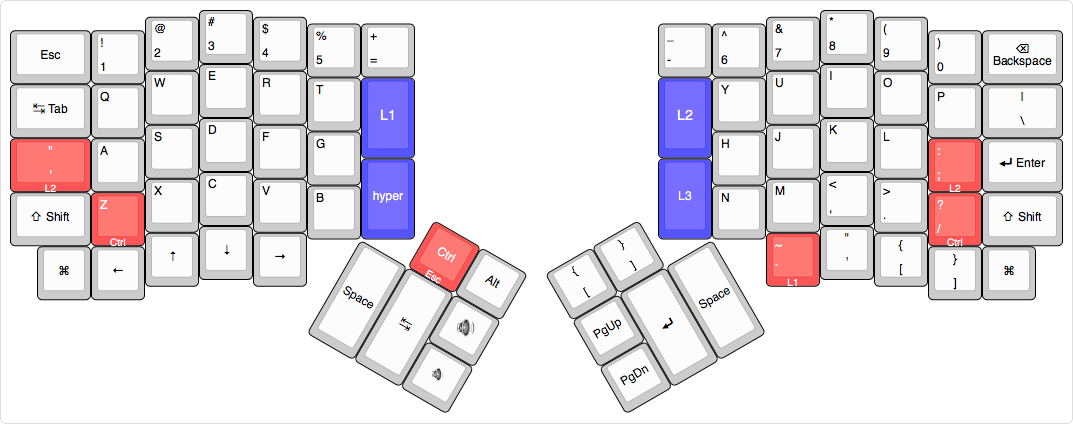
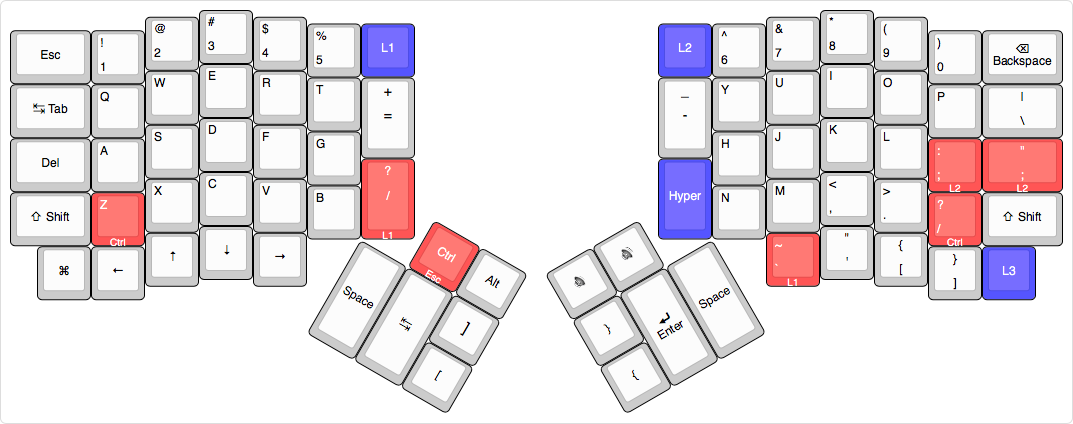
Move keys around to optimize convert

diff --git a/keyboard/ergodox_ez/keymaps/tomeric/keymap.c b/keyboard/ergodox_ez/keymaps/tomeric/keymap.c
@@ -14,45 +14,45 @@ const uint16_t PROGMEM keymaps[][MATRIX_ROWS][MATRIX_COLS] = {
 /* Keymap 0: Basic layer
  *
  * ,--------------------------------------------------.           ,--------------------------------------------------.
- * | Esc    |   1  |   2  |   3  |   4  |   5  |  =   |           |   -  |   6  |   7  |   8  |   9  |   0  |  BkSp  |
+ * | Esc    |   1  |   2  |   3  |   4  |   5  |  L1  |           |  L2  |   6  |   7  |   8  |   9  |   0  |  BkSp  |
  * |--------+------+------+------+------+-------------|           |------+------+------+------+------+------+--------|
- * | Tab    |   Q  |   W  |   E  |   R  |   T  |  L1  |           |  L2  |   Y  |   U  |   I  |   O  |   P  |   \    |
+ * | Tab    |   Q  |   W  |   E  |   R  |   T  |  =   |           |   -  |   Y  |   U  |   I  |   O  |   P  |   \    |
  * |--------+------+------+------+------+------|      |           |      |------+------+------+------+------+--------|
- * | '"/L2  |   A  |   S  |   D  |   F  |   G  |------|           |------|   H  |   J  |   K  |   L  |; / L2|  Enter |
- * |--------+------+------+------+------+------| Hyper|           |  L3  |------+------+------+------+------+--------|
- * | LShift |Z/Ctrl|   X  |   C  |   V  |   B  |      |           |      |   N  |   M  |   ,  |   .  |//Ctrl| RShift |
+ * | Del    |   A  |   S  |   D  |   F  |   G  |------|           |------|   H  |   J  |   K  |   L  |   ;  | '" / L2|
+ * |--------+------+------+------+------+------|  ?/  |           | Hyper|------+------+------+------+------+--------|
+ * | LShift |Z/Ctrl|   X  |   C  |   V  |   B  |  L1  |           |      |   N  |   M  |  <,  |  >.  |//Ctrl| RShift |
  * `--------+------+------+------+------+-------------'           `-------------+------+------+------+------+--------'
- *   | LGui | Left |  Up  | Down | Right|                                       |Grv/L1|  '"  |   [  |   ]  | RGui |
+ *   | LGui | Left |  Up  | Down | Right|                                       |Grv/L1|  '"  |   [  |   ]  |  L3  |
  *   `----------------------------------'                                       `----------------------------------'
  *                                       ,--------------.       ,-------------.
- *                                       |Ctr/Esc|  Alt |       |   [  |   ]  |
+ *                                       |Ctr/Esc|  Alt |       |VolDwn|VolUp |
  *                                ,------|-------|------|       |------+--------+------.
- *                                |      |       |VolUp |       | PgUp |        |      |
+ *                                |      |       |   ]  |       |  }   |        |      |
  *                                | Space|  Tab  |------|       |------|  Enter | Space|
- *                                |      |       |VolDwn|       | PgDn |        |      |
+ *                                |      |       |   [  |       |  {   |        |      |
  *                                `---------------------'       `----------------------'
  */
 // If it accepts an argument (i.e, is a function), it doesn't need KC_.
 // Otherwise, it needs KC_*
 [BASE] = KEYMAP(  // layer 0 : default
         // left hand
-        KC_ESC,   KC_1,         KC_2,   KC_3,   KC_4,   KC_5,   KC_EQL,
-        KC_TAB,   KC_Q,         KC_W,   KC_E,   KC_R,   KC_T,   TG(1),
-LT(MDIA,KC_QUOT), KC_A,         KC_S,   KC_D,   KC_F,   KC_G,
-        KC_LSFT,  CTL_T(KC_Z),  KC_X,   KC_C,   KC_V,   KC_B,   ALL_T(KC_NO),
+        KC_ESC,   KC_1,         KC_2,   KC_3,   KC_4,   KC_5,   TG(SYMB),
+        KC_TAB,   KC_Q,         KC_W,   KC_E,   KC_R,   KC_T,   KC_EQL,
+        KC_DEL,   KC_A,         KC_S,   KC_D,   KC_F,   KC_G,
+        KC_LSFT,  CTL_T(KC_Z),  KC_X,   KC_C,   KC_V,   KC_B,   LT(SYMB,KC_SLSH),
         KC_LGUI,  KC_LEFT,      KC_UP,  KC_DOWN,KC_RGHT,
                                                CTL_T(KC_ESC), KC_LALT,
-                                                              KC_VOLU,
-                                             KC_SPC,  KC_TAB, KC_VOLD,
+                                                              KC_RBRC,
+                                             KC_SPC,  KC_TAB, KC_LBRC,
         // right hand
-             KC_MINS,     KC_6,   KC_7,           KC_8,   KC_9,   KC_0,             KC_BSPC,
-             TG(2),       KC_Y,   KC_U,           KC_I,   KC_O,   KC_P,             KC_BSLS,
-                          KC_H,   KC_J,           KC_K,   KC_L,   LT(MDIA, KC_SCLN),KC_ENT,
-             TG(3),       KC_N,   KC_M,           KC_COMM,KC_DOT, CTL_T(KC_SLSH),   KC_RSFT,
-                                  LT(SYMB,KC_GRV),KC_QUOT,KC_LBRC,KC_RBRC,          KC_RGUI,
-             KC_LBRC,KC_RBRC,
-             KC_PGUP,
-             KC_PGDN,KC_ENT, KC_SPC
+             TG(MDIA),    KC_6,   KC_7,           KC_8,   KC_9,   KC_0,             KC_BSPC,
+             KC_MINS,     KC_Y,   KC_U,           KC_I,   KC_O,   KC_P,             KC_BSLS,
+                          KC_H,   KC_J,           KC_K,   KC_L,   KC_SCLN,          LT(MDIA, KC_QUOT),
+             ALL_T(KC_NO),KC_N,   KC_M,           KC_COMM,KC_DOT, CTL_T(KC_SLSH),   KC_RSFT,
+                                  LT(SYMB,KC_GRV),KC_QUOT,KC_LBRC,KC_RBRC,          TG(PLVR),
+             KC_VOLD,KC_VOLU,
+             KC_RCBR,
+             KC_LCBR,KC_ENT, KC_SPC
     ),
 /* Keymap 1: Symbol Layer
  *
@@ -105,16 +105,16 @@ LT(MDIA,KC_QUOT), KC_A,         KC_S,   KC_D,   KC_F,   KC_G,
  * |--------+------+------+------+------+------|      |           |      |------+------+------+------+------+--------|
  * |        |      |      |      |      |      |------|           |------|      |      |      |      |      |        |
  * |--------+------+------+------+------+------|      |           |      |------+------+------+------+------+--------|
- * |        |      |      |      |      |      |      |           | Mute |      |      |      |      |      |        |
+ * |        |      |      |      |      |      |      |           |      |      |      |      |      |      |        |
  * `--------+------+------+------+------+-------------'           `-------------+------+------+------+------+--------'
  *   |      |MsLeft| MsUp |MsDown|MsRght|                                       |      |      |      |      |      |
  *   `----------------------------------'                                       `----------------------------------'
  *                                        ,-------------.       ,-------------.
- *                                        |      |      |       | Prev | Next |
+ *                                        |      |      |       |VolDn |VolUp |
  *                                 ,------|------|------|       |------+------+------.
- *                                 |      |      |      |       |VolUp |      |Brwser|
- *                                 | Lclk | Rclk |------|       |------| Play |Back  |
- *                                 |      |      |      |       |VolDn |      |      |
+ *                                 |      |      |      |       | Next |      |      |
+ *                                 | Lclk | Rclk |------|       |------| Play | Mute |
+ *                                 |      |      |      |       | Prev |      |      |
  *                                 `--------------------'       `--------------------'
  */
 // MEDIA AND MOUSE
@@ -131,11 +131,11 @@ LT(MDIA,KC_QUOT), KC_A,         KC_S,   KC_D,   KC_F,   KC_G,
        KC_TRNS,  KC_TRNS, KC_TRNS, KC_TRNS, KC_TRNS, KC_TRNS, KC_TRNS,
        KC_TRNS,  KC_TRNS, KC_TRNS, KC_TRNS, KC_TRNS, KC_TRNS, KC_TRNS,
                  KC_TRNS, KC_TRNS, KC_TRNS, KC_TRNS, KC_TRNS, KC_TRNS,
-       KC_MUTE,  KC_TRNS, KC_TRNS, KC_TRNS, KC_TRNS, KC_TRNS, KC_TRNS,
+       KC_TRNS,  KC_TRNS, KC_TRNS, KC_TRNS, KC_TRNS, KC_TRNS, KC_TRNS,
                           KC_TRNS, KC_TRNS, KC_TRNS, KC_TRNS, KC_TRNS,
-       KC_MPRV, KC_MNXT,
-       KC_VOLU,
-       KC_VOLD, KC_MPLY, KC_WBAK
+       KC_VOLD, KC_VOLU,
+       KC_MNXT,
+       KC_MPRV, KC_MPLY, KC_MUTE
 ),
 
 /* Keymap 3: Steno for Plover from https://github.com/shayneholmes/tmk_keyboard/commit/11290f8489013018f778627db725160c745e75bd
@@ -174,8 +174,8 @@ LT(MDIA,KC_QUOT), KC_A,         KC_S,   KC_D,   KC_F,   KC_G,
         KC_NO,    KC_NO,   KC_NO,   KC_NO,   KC_NO, KC_NO,   KC_NO,
         KC_TRNS,  KC_6,    KC_7,    KC_8,    KC_9,  KC_0,    KC_NO,
                   KC_Y,    KC_U,    KC_I,    KC_O,  KC_P,    KC_LBRC,
-        KC_TRNS,  KC_H,    KC_J,    KC_K,    KC_L,  KC_SCLN, KC_QUOT,
-                           KC_TRNS, KC_TRNS, KC_NO, KC_NO,   KC_NO,
+        KC_NO,    KC_H,    KC_J,    KC_K,    KC_L,  KC_SCLN, KC_QUOT,
+                           KC_TRNS, KC_TRNS, KC_NO, KC_NO,   KC_TRNS,
         KC_TRNS, KC_TRNS,
         KC_TRNS,
         KC_NO,  KC_N,   KC_M
